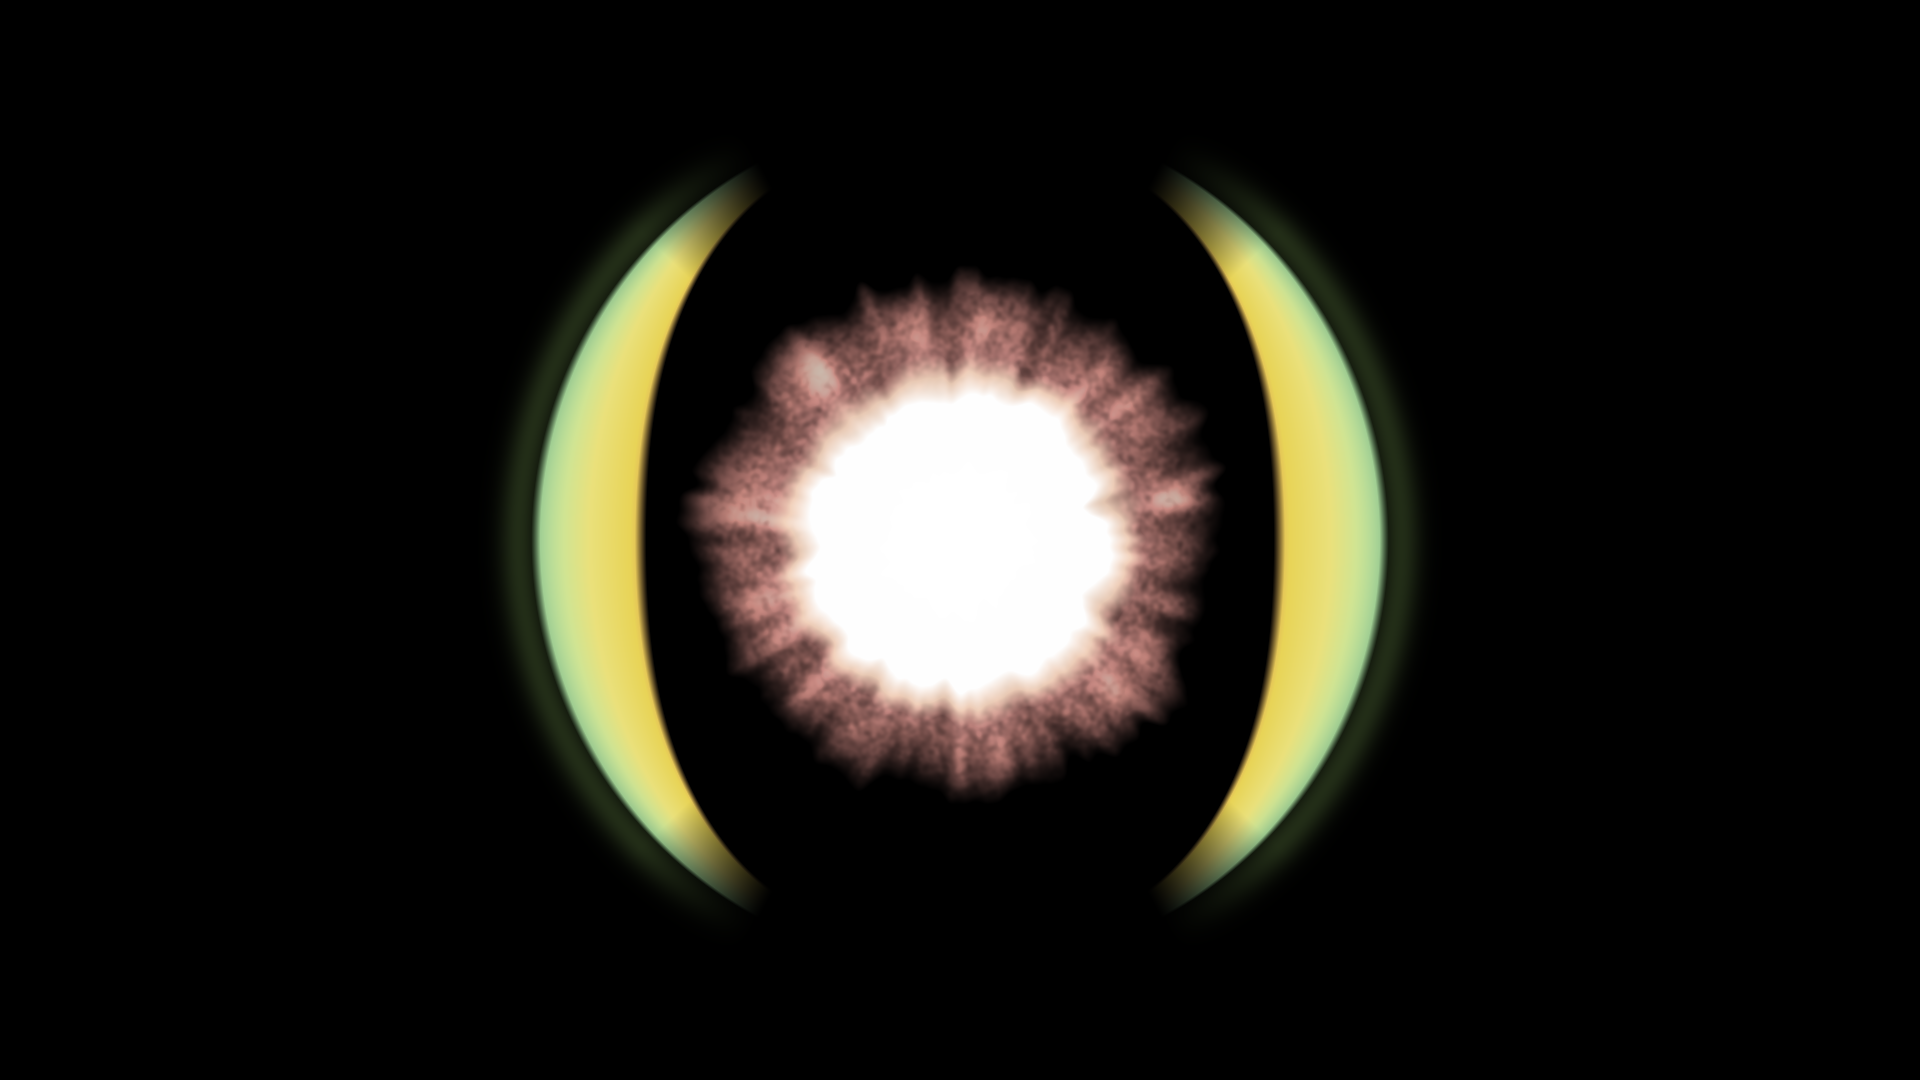
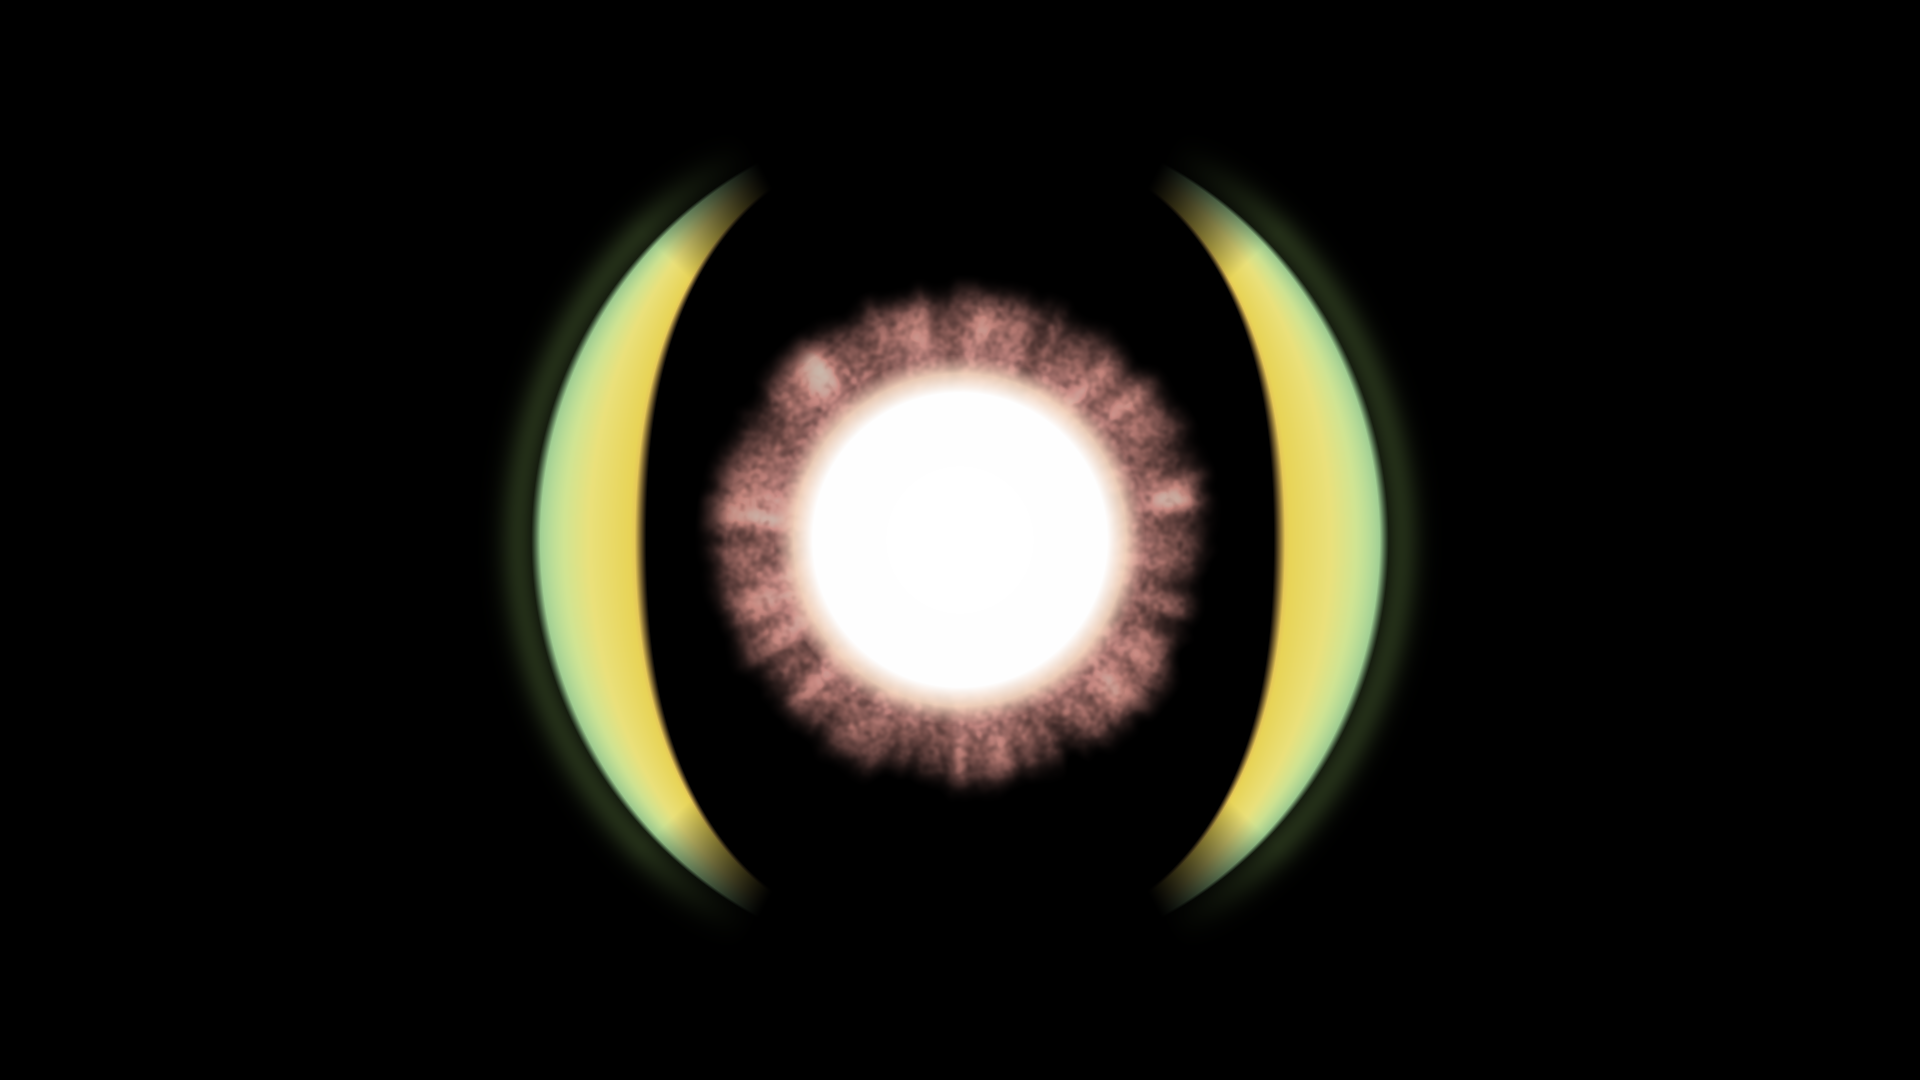
Efekt 10 küre: ölçüler önceki gibi sabit, şeftali yalnız korona dokusunda
Claude-Session: https://claude.ai/code/session_01E9c1WiJsMc9gXSJZ9D4z6g

diff --git a/arayuz/araclar/efekt10/kure.py b/arayuz/araclar/efekt10/kure.py
@@ -43,14 +43,14 @@ Pn/=1.15; Pn=ndimage.gaussian_filter(Pn,2.0)
 tane=ndimage.gaussian_filter(fbm(9,[2,3],[1.0,0.5]),0.8)                                                  # ince taneli doku (fotograftaki gibi)
 Rw=R-9*Pn                                                                    # dalgali yaricap: alev dilleri disari tasar
 col,al=interp(Rw,[(0,"#E6A49C",0.8),(100,"#E6A49C",0.8),(112,"#DA9690",0.8),(132,"#CC8880",0.78),(148,"#B87A74",0.55),(166,"#8A5E58",0.0)])
-al=al*np.clip(0.9+0.1*Pn+0.05*tane,0,1)
+al=al*np.clip(0.9+0.1*Pn+0.05*tane,0,1)*np.interp(R,[0,146,166],[1,1,0])   # olculer sabit: dis sinir 166'yi gecmez
 col=col*np.clip(1+0.04*tane+0.08*Pn,0.85,1.15)[...,None]
 # sicak parlak damarlar (korona isiltisi)
 damar=np.clip(Pn-0.4,0,1)*np.exp(-((Rw-120)/22)**2)
 col=col+ndimage.gaussian_filter(damar,3)[...,None]*rk("#F2C0A8")*0.35
 uzerine(np.clip(col,0,1),al)
 # titanyum beyaz: buyuk, opak; kenari seftaliye yumusak gecer
-col,al=interp(R-5*Pn,[(0,"#FFFFFF",1.0),(92,"#FEFEFE",1.0),(104,"#F8DBC3",0.85),(116,"#EBB8A8",0.0)])
+col,al=interp(R,[(0,"#FFFFFF",1.0),(92,"#FEFEFE",1.0),(104,"#F8DBC3",0.85),(116,"#EBB8A8",0.0)])
 uzerine(col,al)
 # parantezler: dis kenar sabit yay, ic kenar ortada iceri siskin (sari kisim parantezin icinde -> orta kalin), uclar incelip solar
 yan=np.abs(np.cos(A)); aci=np.degrees(np.arccos(np.clip(yan,0,1)))
